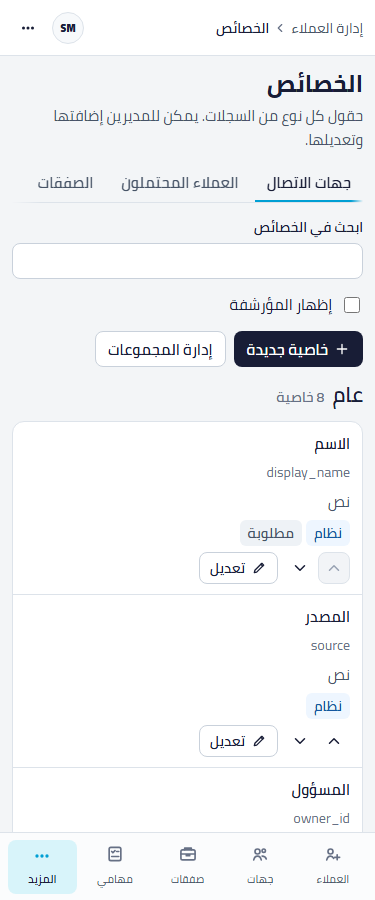
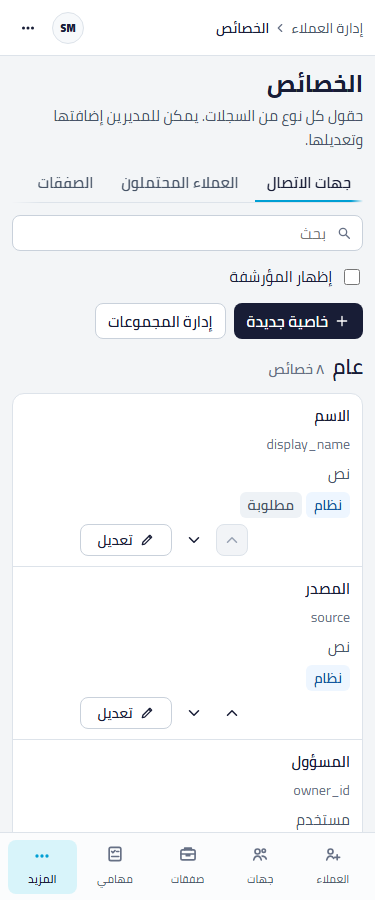
fix(crm): properties page — Arabic digits, Arabic/English plurals, aligned action slots, grid search box
CREATIVE gate GATE_PROPERTIES.md M1-M3 + L2; e2e asserts digits/plurals/alignment.
Checks (Lead run): lint 0, typecheck ok, unit 341, build ok, ui properties 12/12.

diff --git a/CRM_APP/app/src/features/properties/PropertiesView.tsx b/CRM_APP/app/src/features/properties/PropertiesView.tsx
@@ -9,7 +9,7 @@ import {
 	ErrorState,
 	ForbiddenState,
 	IconButton,
-	Input,
+	Icon,
 	type MessageKey,
 	PageHeader,
 	SkeletonRows,
@@ -24,6 +24,7 @@ import { useSchema } from "./hooks.ts";
 import { ManageOptionsDialog } from "./ManageOptionsDialog.tsx";
 import {
 	classifyWriteError,
+	countKey,
 	groupProperties,
 	isSelectType,
 	moveProperty,
@@ -97,6 +98,13 @@ function PropertyRow({
 			</span>
 			{manage && !p.archived ? (
 				<span className="sy-props__actions">
+					{isSelectType(p.type) ? (
+						<Button size="sm" data-testid="property-options" aria-label={`${t("props.action.options")}: ${name}`} onClick={onOptions}>
+							{t("props.action.options")}
+						</Button>
+					) : (
+						<span />
+					)}
 					<MoveButtons
 						idPrefix={`prop-${p.key}`}
 						upLabel={t("props.action.up")}
@@ -110,12 +118,9 @@ function PropertyRow({
 					<Button size="sm" icon="edit" data-testid="property-edit" aria-label={`${t("props.action.edit")}: ${name}`} onClick={onEdit}>
 						{t("props.action.edit")}
 					</Button>
-					{isSelectType(p.type) ? (
-						<Button size="sm" data-testid="property-options" aria-label={`${t("props.action.options")}: ${name}`} onClick={onOptions}>
-							{t("props.action.options")}
-						</Button>
-					) : null}
-					{p.is_system ? null : (
+					{p.is_system ? (
+						<span />
+					) : (
 						<IconButton icon="delete" size="sm" aria-label={`${t("props.action.archive")}: ${name}`} data-testid="property-archive" onClick={onArchive} />
 					)}
 				</span>
@@ -135,7 +140,7 @@ function Body({
 	manage: boolean;
 	reload: () => Promise<void>;
 }) {
-	const { t, locale } = useI18n();
+	const { t, locale, dir, formatCount } = useI18n();
 	const toast = useToast();
 	const command = useCommand();
 	const [query, setQuery] = useState("");
@@ -205,14 +210,20 @@ function Body({
 	return (
 		<div className="sy-props__body">
 			<div className="sy-props__toolbar">
-				<Input
-					label={t("props.search")}
-					type="search"
-					name="q"
-					value={query}
-					data-testid="props-search"
-					onChange={(e) => setQuery(e.target.value)}
-				/>
+				<div className="sy-grid__searchbox sy-props__search">
+					<Icon name="search" size={16} />
+					<input
+						type="search"
+						name="q"
+						dir={query ? "auto" : dir}
+						className="sy-grid__search"
+						aria-label={t("props.search")}
+						placeholder={t("grid.searchPlaceholder")}
+						value={query}
+						data-testid="props-search"
+						onChange={(e) => setQuery(e.target.value)}
+					/>
+				</div>
 				<Check label={t("props.showArchived")} checked={showArchived} onChange={setShowArchived} testId="show-archived" />
 			</div>
 			{notice ? (
@@ -246,7 +257,7 @@ function Body({
 					<section key={group.key} className="sy-props__group" aria-label={pickLabel(group.label, locale, group.key)} data-testid="property-group">
 						<h2 className="sy-props__grouphead">
 							<BidiText>{pickLabel(group.label, locale, group.key)}</BidiText>
-							<span className="sy-props__count">{t("props.count", { count: properties.length })}</span>
+							<span className="sy-props__count">{t(countKey(properties.length, locale), { count: formatCount(properties.length) })}</span>
 						</h2>
 						{properties.length === 0 ? (
 							<p className="sy-props__muted">{t("props.emptyGroup")}</p>

diff --git a/CRM_APP/tests/mvp-properties.spec.ts b/CRM_APP/tests/mvp-properties.spec.ts
@@ -65,6 +65,8 @@ for (const language of ["en", "ar"] as const) {
 			const f = await fixture();
 			await open(page, f, language);
 			await expect(page.getByTestId("property-new")).toBeVisible();
+			// counts use the locale digits and the language's plural form (AR: 3-10 plural noun)
+			await expect(page.getByTestId("property-group").first().locator(".sy-props__count")).toHaveText(language === "ar" ? "٥ خصائص" : "5 properties");
 
 			// text property: both labels, key derived from the English label
 			await page.getByTestId("property-new").click();
@@ -88,6 +90,7 @@ for (const language of ["en", "ar"] as const) {
 			await dialog.getByTestId("option-add").click();
 			const rows = dialog.getByTestId("option-row");
 			await expect(rows).toHaveCount(2);
+			await expect(rows.nth(0).locator(".sy-props__optno")).toHaveText(language === "ar" ? "الخيار ١" : "Option 1");
 			await rows.nth(0).getByTestId("option-en").fill("Basic");
 			await rows.nth(0).getByTestId("option-ar").fill("أساسية");
 			await rows.nth(1).getByTestId("option-en").fill("Pro");
@@ -99,6 +102,15 @@ for (const language of ["en", "ar"] as const) {
 			await expect(dialog).toHaveCount(0);
 			await expect(row(page, "plan")).toBeVisible();
 			await expect(row(page, "plan").getByTestId("property-type")).toHaveText(T[language].single);
+			await expect(page.getByTestId("property-group").first().locator(".sy-props__count")).toHaveText(language === "ar" ? "٧ خصائص" : "7 properties");
+			// action slots are reserved: Edit / up / down line up between a system row, a text row and a select row
+			const x = async (r: string, id: string) => Math.round((await row(page, r).getByTestId(id).boundingBox())?.x ?? -1);
+			for (const id of ["edit", "up", "down"]) {
+				const sel = id === "edit" ? "property-edit" : `prop-%K-${id}`;
+				const at = (r: string) => x(r, sel.replace("%K", r));
+				expect(await at("source")).toBe(await at("lead_tier"));
+				expect(await at("source")).toBe(await at("plan"));
+			}
 
 			// the server stored the options in the chosen order
 			const got = await (await page.request.get("/v1/schema/contact/properties/plan", { headers: auth(f) })).json();

diff --git a/CRM_APP/app/src/features/properties/properties.css b/CRM_APP/app/src/features/properties/properties.css
@@ -16,7 +16,7 @@
 	align-items: flex-end;
 	gap: var(--sy-space-12);
 }
-.sy-props__toolbar .sy-field {
+.sy-props__search {
 	flex: 1 1 240px;
 	max-width: 360px;
 }
@@ -78,7 +78,7 @@
 .sy-props__row,
 .sy-props__opt {
 	display: grid;
-	grid-template-columns: minmax(0, 2fr) 120px minmax(0, 1.3fr) 290px;
+	grid-template-columns: minmax(0, 2fr) 120px minmax(0, 1.3fr) 320px;
 	align-items: center;
 	gap: var(--sy-space-10);
 	padding: var(--sy-space-10) var(--sy-space-12);
@@ -117,17 +117,26 @@
 	flex-wrap: wrap;
 	gap: var(--sy-space-4);
 }
-.sy-props__actions,
+.sy-props__actions {
+	/* reserved slots: Options | up | down | Edit | archive, so rows line up whichever buttons they have */
+	display: grid;
+	grid-template-columns: 96px 32px 32px 92px 32px;
+	gap: var(--sy-space-6);
+	justify-content: end;
+	align-items: center;
+}
+.sy-props__actions .sy-btn:not(.sy-btn--icon) {
+	inline-size: 100%;
+	justify-content: center;
+}
 .sy-props__optactions {
-	justify-content: flex-end;
 	display: flex;
 	flex-wrap: wrap;
 	align-items: center;
 	gap: var(--sy-space-6);
 }
 .sy-props__move {
-	display: inline-flex;
-	gap: var(--sy-space-2);
+	display: contents;
 }
 .sy-props__tag {
 	font-size: var(--sy-type-data-size);
@@ -268,7 +277,9 @@ ol.sy-props__optlist > li.sy-props__opt {
 	.sy-props__badges,
 	.sy-props__actions {
 		grid-column: 1 / -1;
-		justify-content: flex-start;
+	}
+	.sy-props__actions {
+		justify-content: start;
 	}
 }
 
@@ -277,7 +288,7 @@ ol.sy-props__optlist > li.sy-props__opt {
 		grid-template-columns: minmax(0, 1fr);
 		gap: var(--sy-space-6);
 	}
-	.sy-props__toolbar .sy-field {
+	.sy-props__search {
 		max-width: none;
 	}
 	.sy-props__optlist > li.sy-props__opt {

diff --git a/CRM_APP/app/src/features/properties/OptionsEditor.tsx b/CRM_APP/app/src/features/properties/OptionsEditor.tsx
@@ -18,7 +18,7 @@ export function OptionsEditor({
 	serverRows: Record<number, string>;
 	listError?: string | undefined;
 }) {
-	const { t } = useI18n();
+	const { t, formatCount } = useI18n();
 	const patch = (id: string, p: Partial<OptionDraft>) => onChange(options.map((o) => (o.id === id ? { ...o, ...p } : o)));
 	const issueText = (o: OptionDraft, i: number): string | undefined => {
 		const c = errors[o.id];
@@ -39,7 +39,7 @@ export function OptionsEditor({
 			<ol className="sy-props__optlist">
 				{options.map((o, i) => (
 					<li key={o.id} className="sy-props__opt" data-testid="option-row">
-						<span className="sy-props__optno">{t("props.opt.rowLabel", { index: i + 1 })}</span>
+						<span className="sy-props__optno">{t("props.opt.rowLabel", { index: formatCount(i + 1) })}</span>
 						<div className="sy-form-row">
 							<Input
 								label={t("props.opt.labelEn")}

diff --git a/CRM_APP/app/src/features/properties/model.test.ts b/CRM_APP/app/src/features/properties/model.test.ts
@@ -6,6 +6,7 @@ import {
 	buildPatchBody,
 	classifyWriteError,
 	commandFor,
+	countKey,
 	deriveKey,
 	deriveOptionValue,
 	draftOf,
@@ -176,6 +177,16 @@ describe("server errors", () => {
 		expect(r.maxLength).toBe("VALIDATION_INVALID");
 		expect(r.optionRows).toEqual({ 1: "OPTION_VALUE_INVALID" });
 		expect(r.form).toBe("X");
+	});
+});
+
+describe("plural forms", () => {
+	it("Arabic: zero, one, two, few (3-10), many (11-99), other (100)", () => {
+		const k = (n: number) => countKey(n, "ar").replace("props.count.", "");
+		expect([0, 1, 2, 3, 10, 11, 99, 100].map(k)).toEqual(["zero", "one", "two", "few", "few", "many", "many", "other"]);
+	});
+	it("English: one / other", () => {
+		expect([0, 1, 2, 5].map((n) => countKey(n, "en").replace("props.count.", ""))).toEqual(["zero", "one", "other", "other"]);
 	});
 });
 

diff --git a/CRM_APP/app/src/ui/i18n/ar.ts b/CRM_APP/app/src/ui/i18n/ar.ts
@@ -696,7 +696,12 @@ export const ar: Record<MessageKey, string> = {
 	"props.new": "خاصية جديدة",
 	"props.manageGroups": "إدارة المجموعات",
 	"props.readOnlyNote": "يمكنك عرض الخصائص فقط. المديرون وحدهم يستطيعون تعديلها.",
-	"props.count": "{count} خاصية",
+	"props.count.zero": "لا توجد خصائص",
+	"props.count.one": "خاصية واحدة",
+	"props.count.two": "خاصيتان",
+	"props.count.few": "{count} خصائص",
+	"props.count.many": "{count} خاصية",
+	"props.count.other": "{count} خاصية",
 	"props.list": "خصائص {object}",
 	"props.col.key": "المفتاح",
 	"props.badge.system": "نظام",

diff --git a/CRM_APP/app/src/features/properties/model.ts b/CRM_APP/app/src/features/properties/model.ts
@@ -66,6 +66,12 @@ export type ObjectSchema = {
 	properties: PropertyDef[];
 };
 
+/** Plural message key for a count (CLDR categories via Intl.PluralRules: Arabic has zero/one/two/few/many/other, English one/other). */
+export function countKey(count: number, locale: "en" | "ar"): MessageKey {
+	if (count === 0) return "props.count.zero";
+	return `props.count.${new Intl.PluralRules(locale).select(count)}` as MessageKey;
+}
+
 /** Label for the UI language, falling back to the other language, then to the key. */
 export function pickLabel(label: Lang | undefined, locale: "en" | "ar", fallback = ""): string {
 	const other = locale === "ar" ? "en" : "ar";

diff --git a/CRM_APP/app/src/ui/i18n/en.ts b/CRM_APP/app/src/ui/i18n/en.ts
@@ -697,7 +697,12 @@ export const en = {
 	"props.new": "New property",
 	"props.manageGroups": "Manage groups",
 	"props.readOnlyNote": "You can view the properties. Only managers can change them.",
-	"props.count": "{count} properties",
+	"props.count.zero": "No properties",
+	"props.count.one": "One property",
+	"props.count.two": "2 properties",
+	"props.count.few": "{count} properties",
+	"props.count.many": "{count} properties",
+	"props.count.other": "{count} properties",
 	"props.list": "Properties of {object}",
 	"props.col.key": "Key",
 	"props.badge.system": "System",
